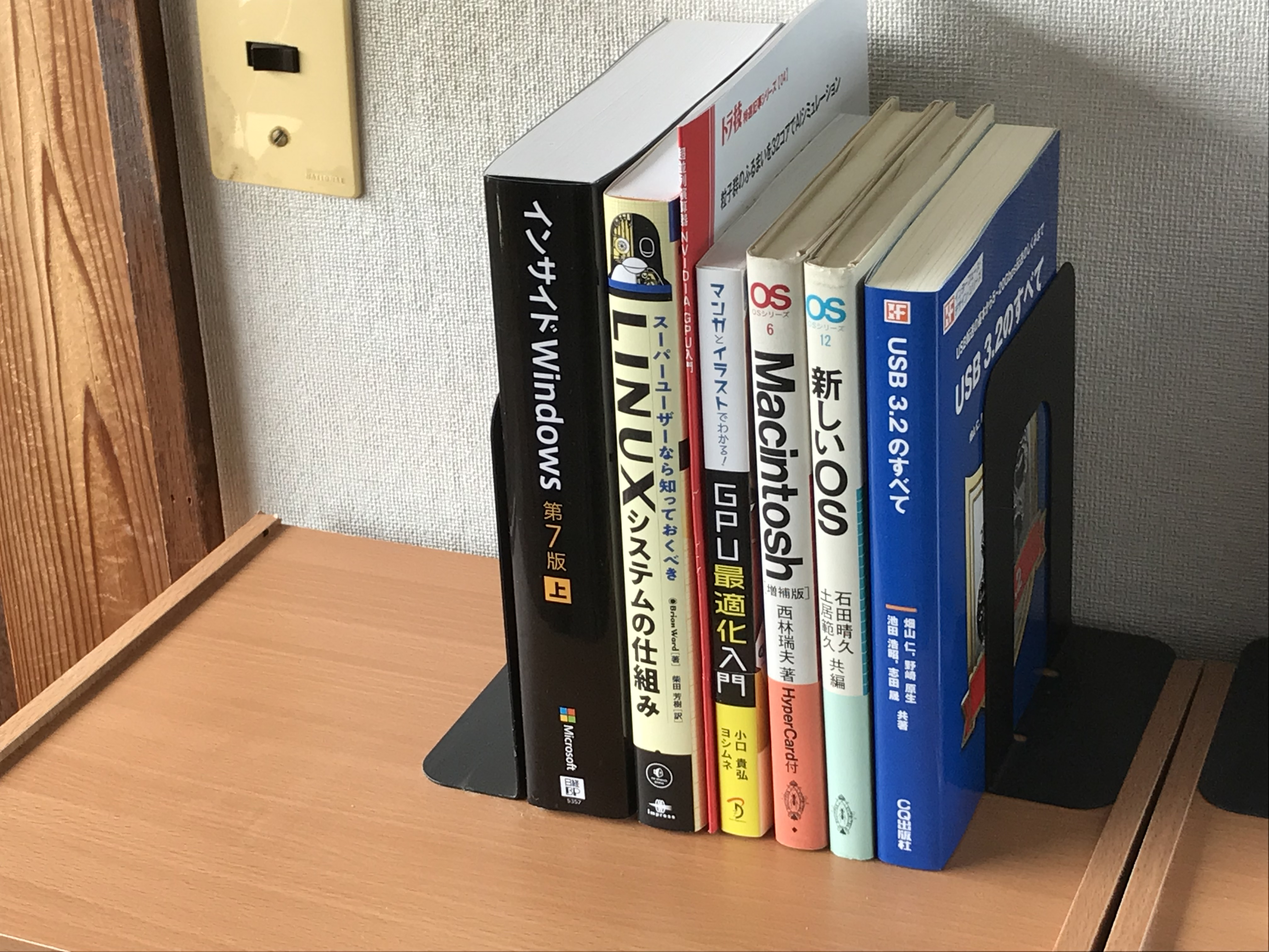
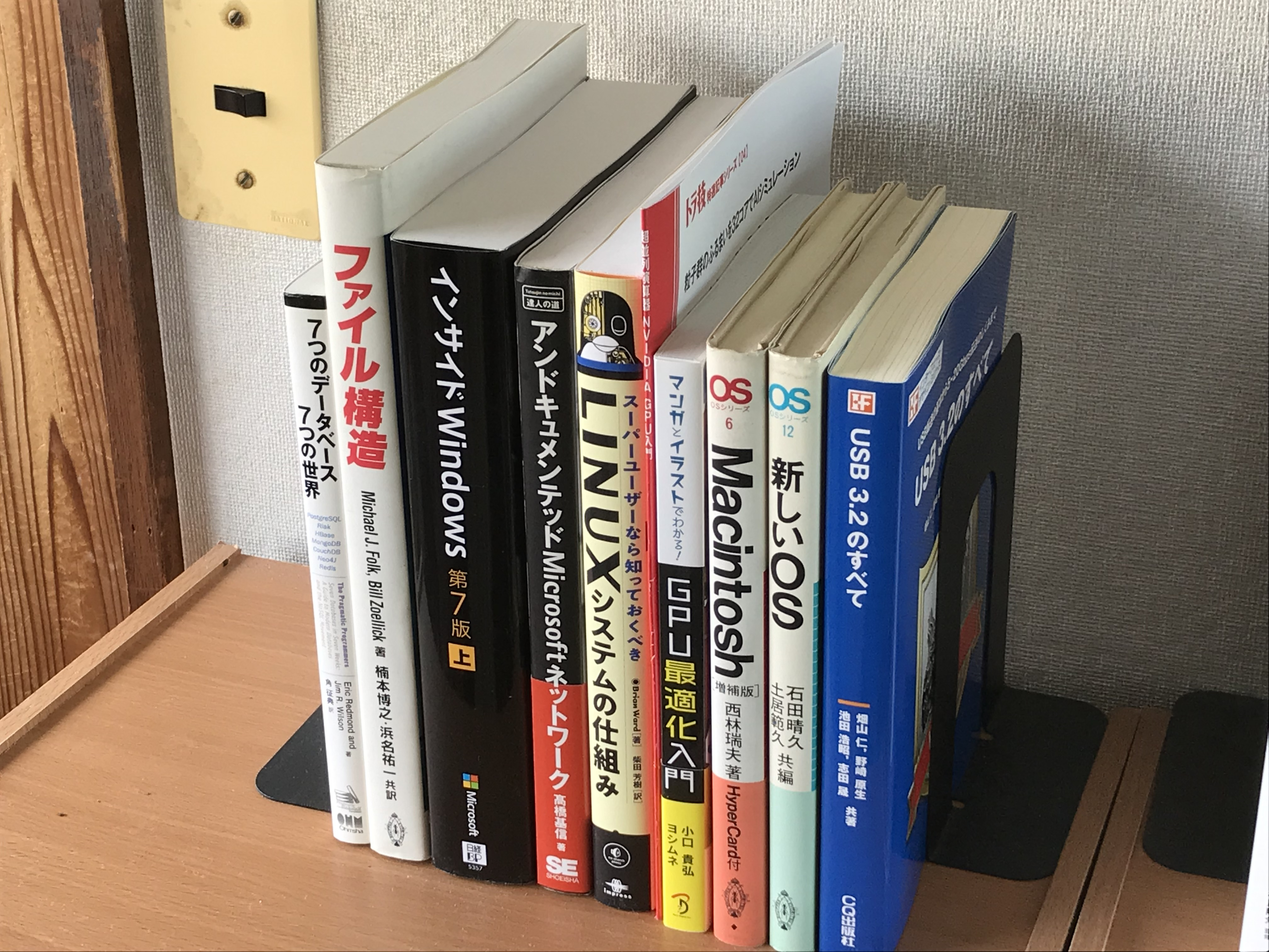
2022/05/04 時点の本棚

diff --git a/README.md b/README.md
@@ -3,8 +3,11 @@
 
 コンパイラ・IDE・OS・VMM・IME の開発のための和書
 
-2022/03/21 更新
+2022/05/04 更新
 
+* 2022/05/04 上段 追加：本棚 11
+* 2022/05/04 中段 追加：本棚 11
+* 2022/05/04 上段 更新：本棚 1, 5
 * 2022/03/21 ブックマークのリポジトリの案内を追記
 * 2022/03/19 上段 追加：本棚 1～5, 10
 * 2022/03/19 上段 更新：本棚 9
@@ -178,16 +181,28 @@ https://github.com/tenpoku1000/OPML_bookmarks
 
 なし
 
+## 本棚 11 の上段
+
+![本棚 11 の上段](images/11-1.JPG)
+
+## 本棚 11 の中段
+
+![本棚 11 の中段](images/11-2.JPG)
+
+## 本棚 11 の下段
+
+なし
+
 ## その他(JIS 規格書)
 
 1. JIS X 5603:1990 開放型システム間相互接続の抽象構文記法1(ASN.1)仕様  
 2. JIS X 4156:2005 ハイパテキストマーク付け言語(HTML)  
 3. JIS X 4168:2004 段階スタイルシート 水準1(CSS1)  
 
-![その他-1](images/11-1.JPG)
+![その他-1](images/12-1.JPG)
 
 4. JIS X 3010:2003 プログラム言語C  
 5. JIS X 0221:2014 国際符号化文字集合(UCS)  
 
-![その他-2](images/11-2.JPG)
+![その他-2](images/12-2.JPG)
 
